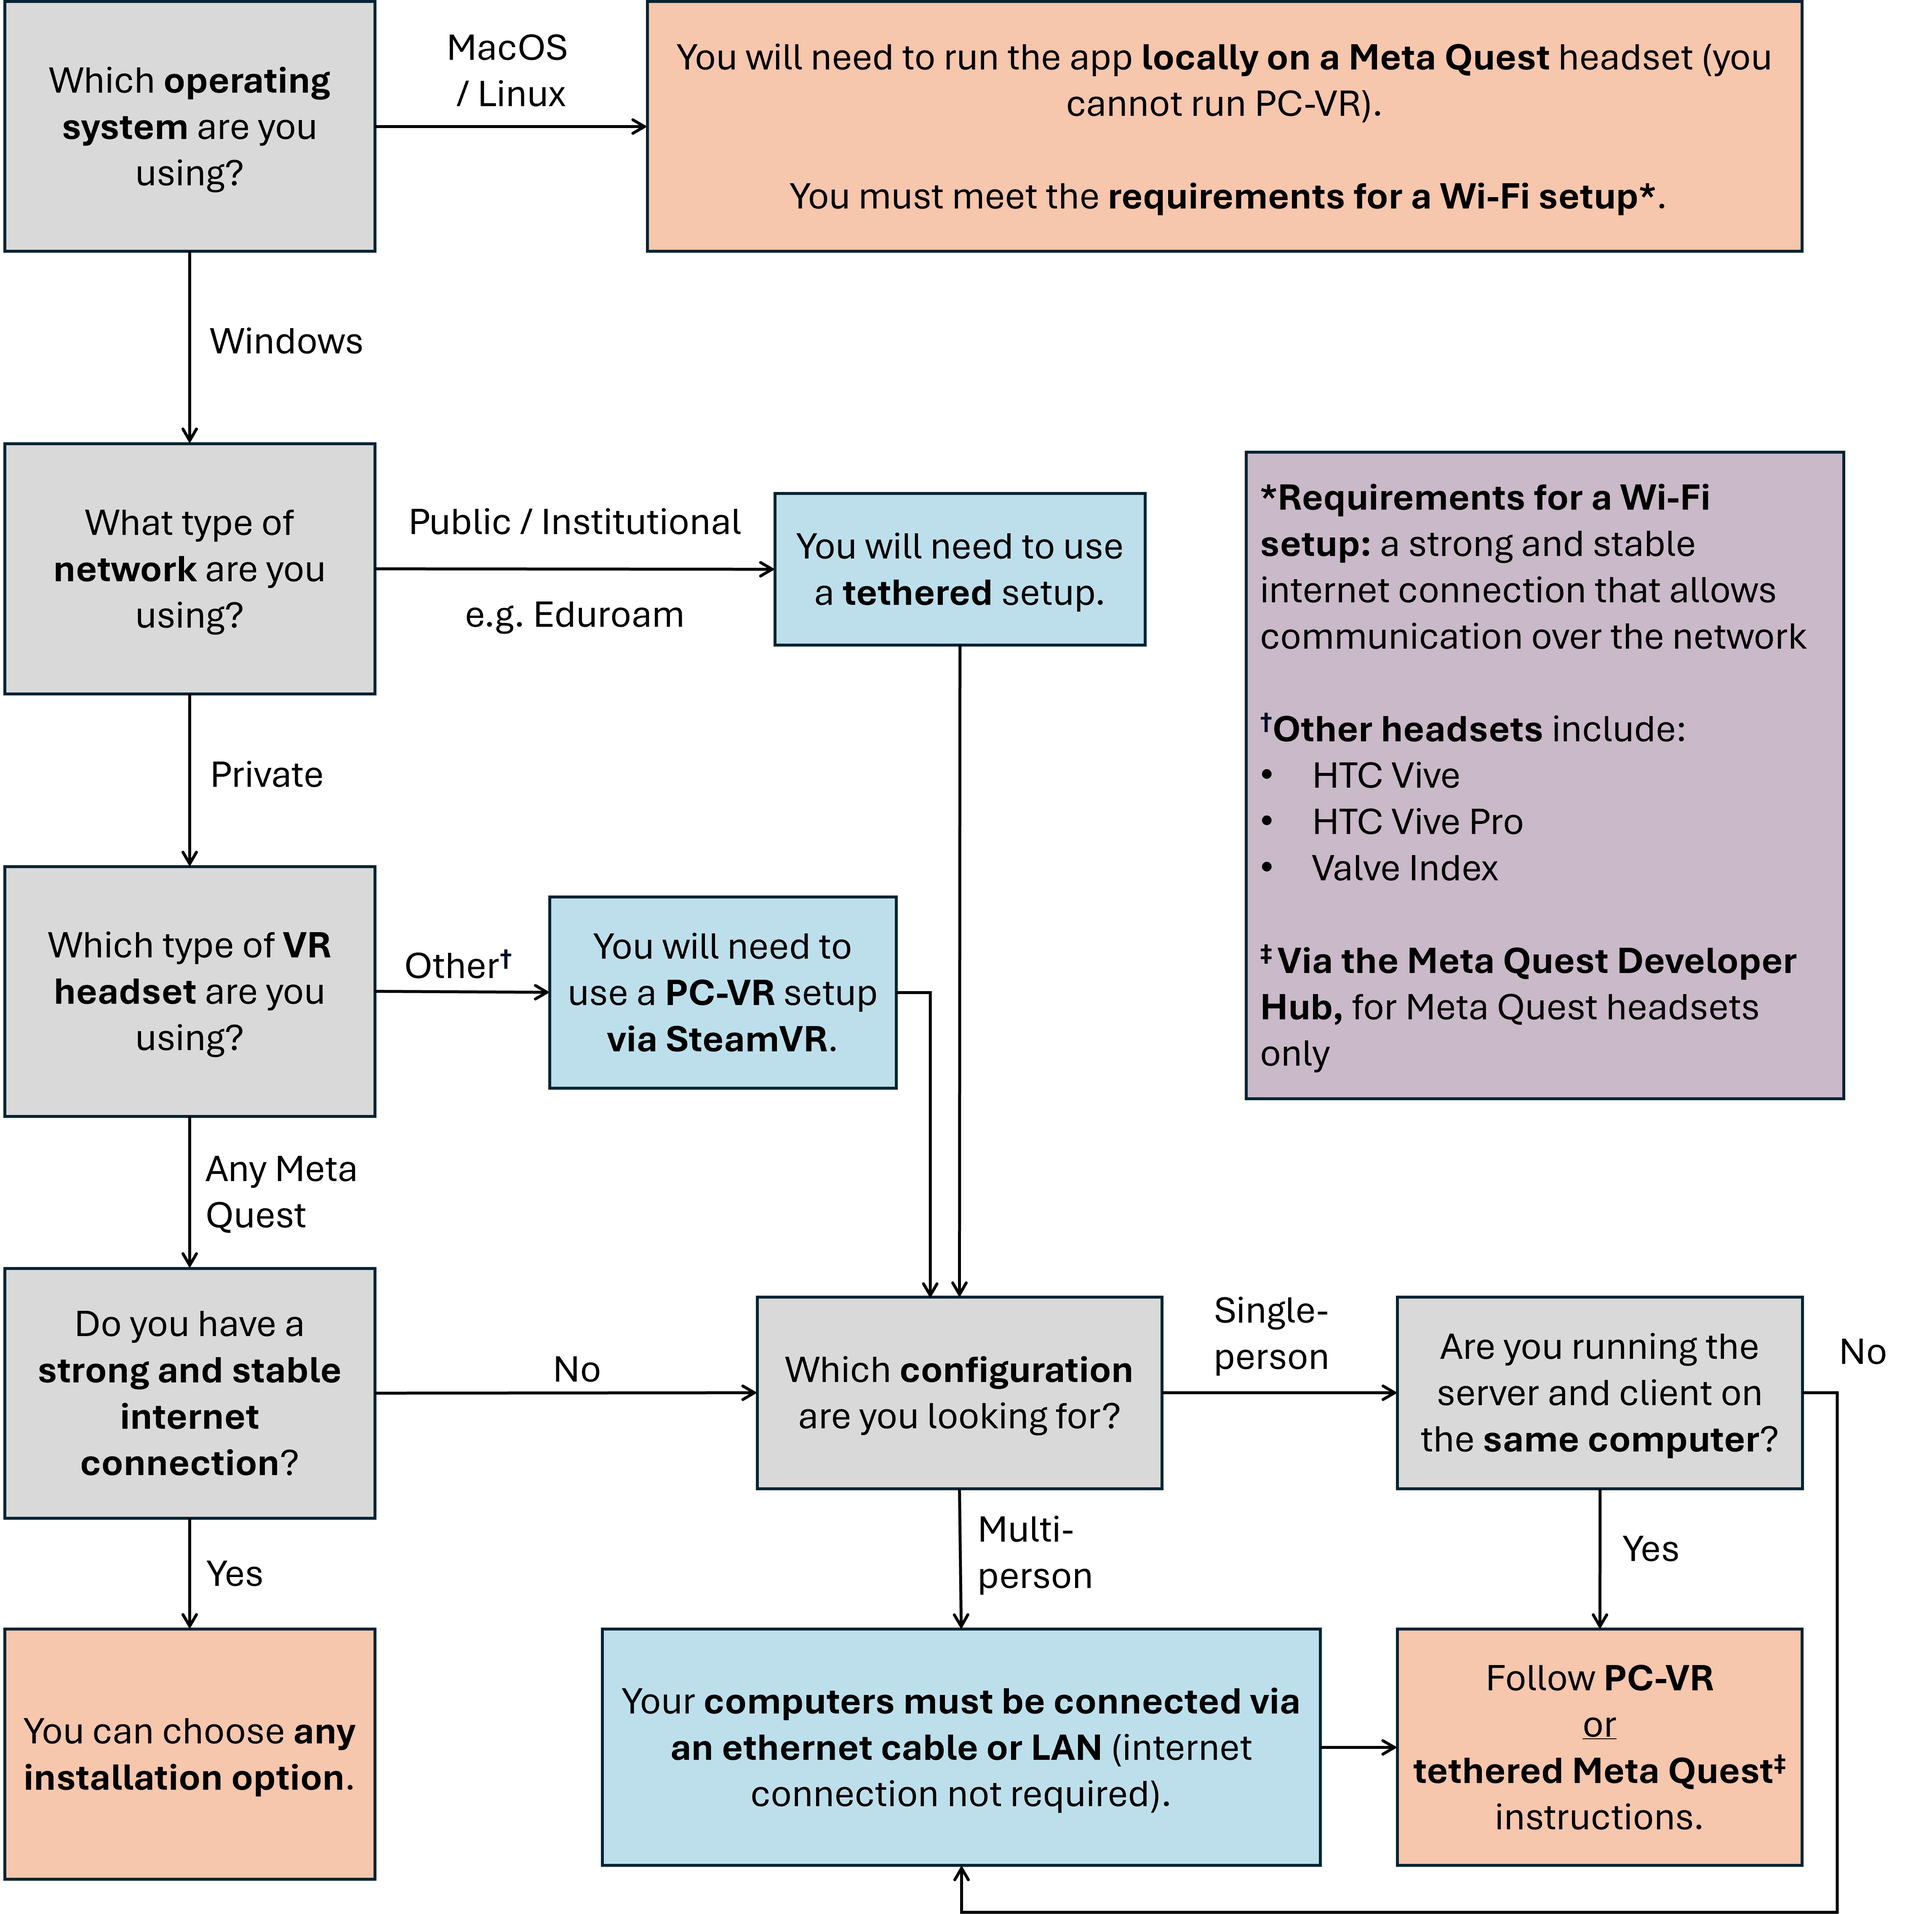
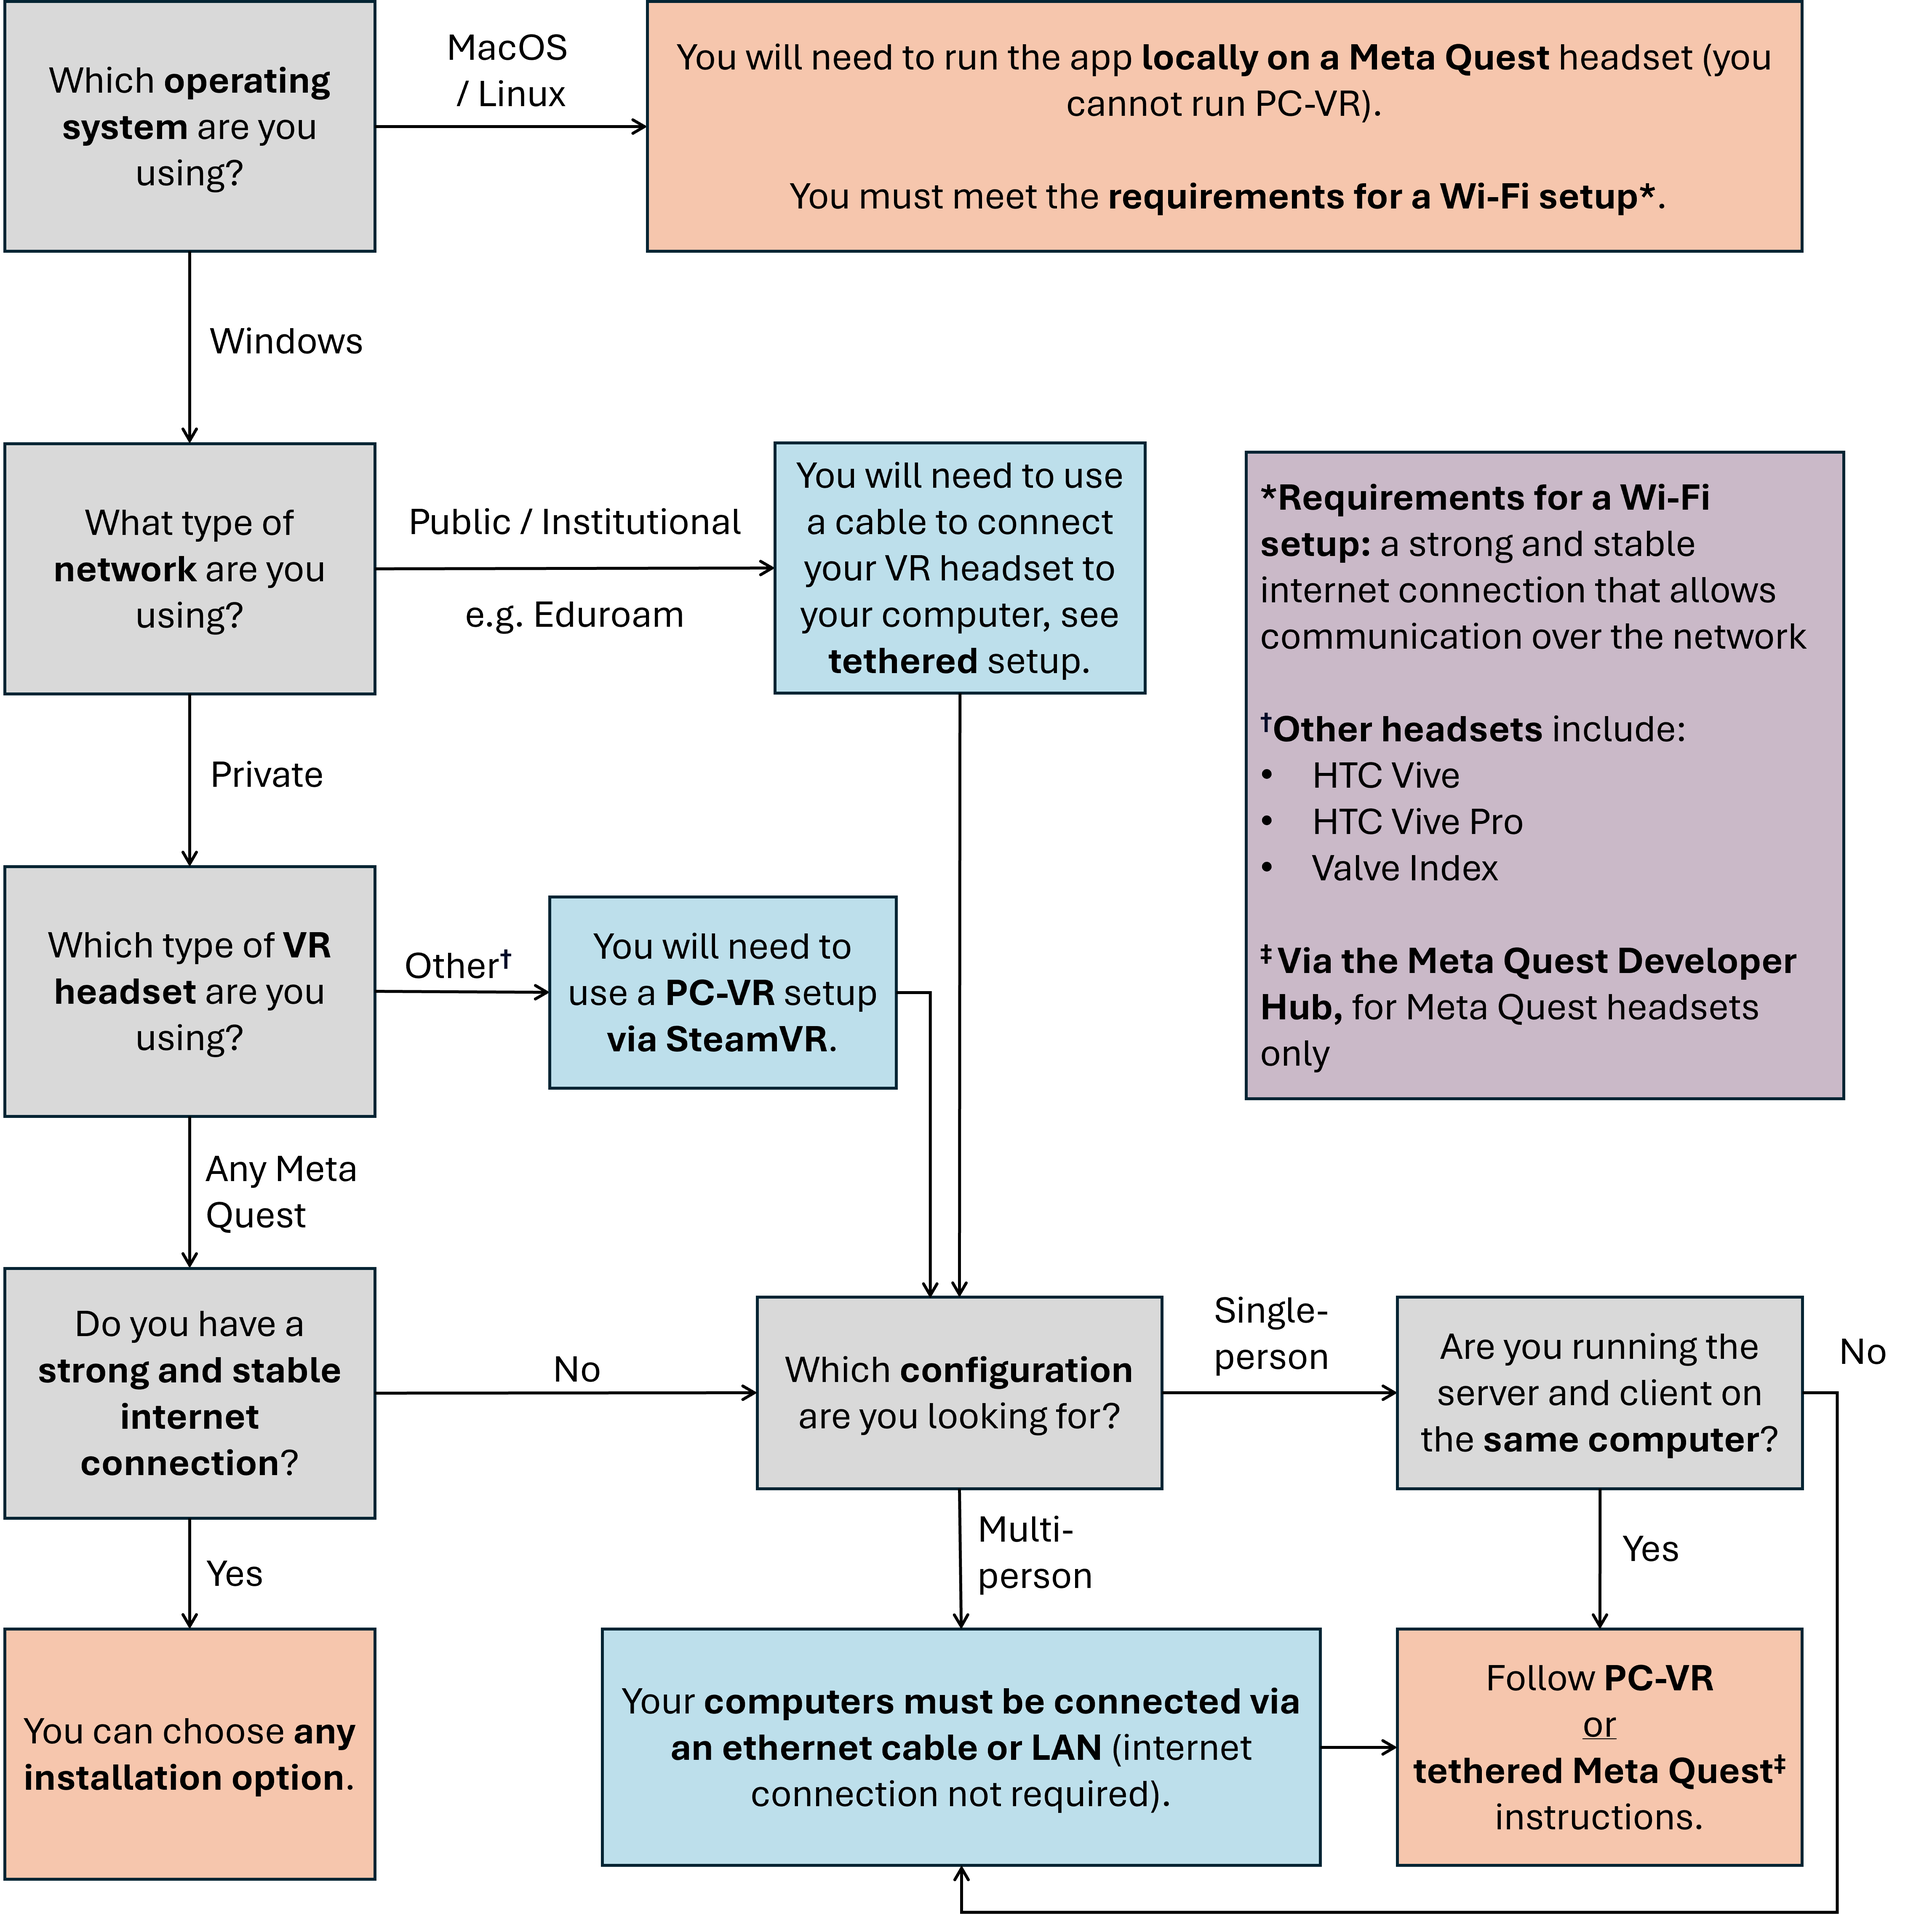
clarify meaning of 'tethered'
Clarify what 'tethered' means in the installation instructions for the VR client, including the wording & the flow diagram.

Changed region(s): [[0.404, 0.2188, 0.6216, 0.375]]

diff --git a/source/installation.rst b/source/installation.rst
@@ -107,12 +107,14 @@ In this case, you have two options for running the VR client:
 
 Both options are compatible with any of the following:
 
-* Meta Quest Link (tethered)
+* Meta Quest Link (tethered\ :sup:`†`)
 * Meta Quest AirLink (wireless*)
-* SteamVR (tethered)
+* SteamVR (tethered\ :sup:`†`)
 * Steam Link (wireless*)
 
-\*Note that for a wireless setup you will need to meet the **requirements for a Wi-Fi setup** (see the key in the flow
+\ :sup:`†` **Tethered**: using a cable to connect your headset to your computer.
+
+\* Note that for a **wireless setup** you will need to meet the **requirements for a Wi-Fi setup** (see the key in the flow
 diagram above).
 
 Running locally on a Meta Quest headset
@@ -123,7 +125,7 @@ In this case, you have one option:
 * **Downloading the latest release of the NanoVer iMD apk** and installing this on your headset, see
   :ref:`download_latest_release_VR_client`.
 
-Note that for a wireless setup you will need to meet the **requirements for a Wi-Fi setup** (see the key in the flow
+Note that for a **wireless setup** you will need to meet the **requirements for a Wi-Fi setup** (see the key in the flow
 diagram above).
 
 ----
@@ -162,14 +164,18 @@ The next steps depend on how you want to run the program:
        `Meta Quest Developer Hub <https://developer.oculus.com/meta-quest-developer-hub/>`_ for this.
     #. Look in the ``Unknown Sources`` section of your apps list inside your headset and run ``NanoVer IMD``.
 
-* **Running locally on a Meta Quest headset via the Meta Developer Hub (tethered)**:
+* **Running locally on a Meta Quest headset via the Meta Developer Hub** (tethered\ :sup:`†`):
     #. You can also run the apk on the headset using a tethered setup. First, follow the above instructions for
        installing the apk on your headset.
+    #. Connect your headset to your computer with a cable. A notification may appear inside your headset stating:
+       "USB Detected: click on this notification to allow the connected device to access files". Allow this.
     #. Open the `Meta Quest Developer Hub <https://developer.oculus.com/meta-quest-developer-hub/>`_ and go to the
        ``Device Manager`` menu on the left sidebar.
     #. Look for the NanoverIMD app under ``Apps``. It should be called ``com.IntangibleRealitiesLaboratory.NanoVeriMD``
        (hover over it with you cursor to see the full name).
     #. Click on the three dots (on the far right) for this app and select ``Launch App``.
+
+\ :sup:`†` **Tethered**: using a cable to connect your headset to your computer.
 
 
 .. _conda_installation_VR_client:
